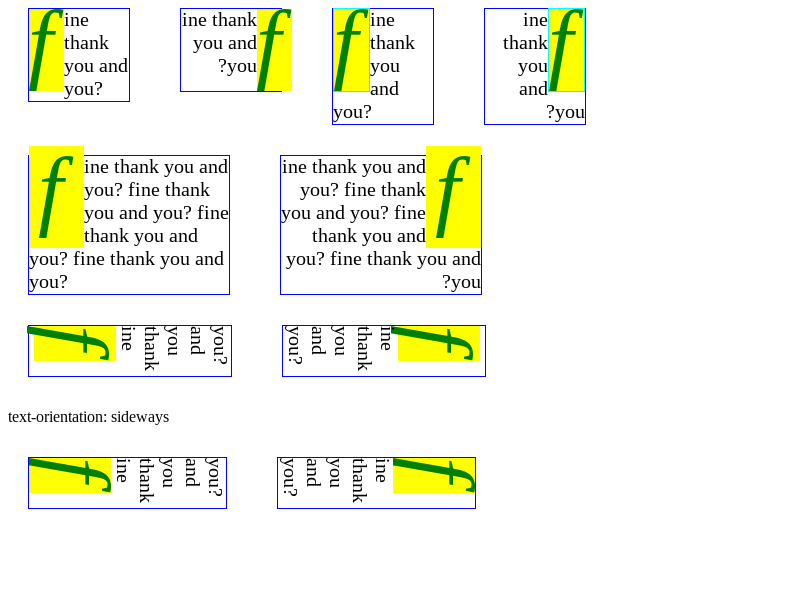
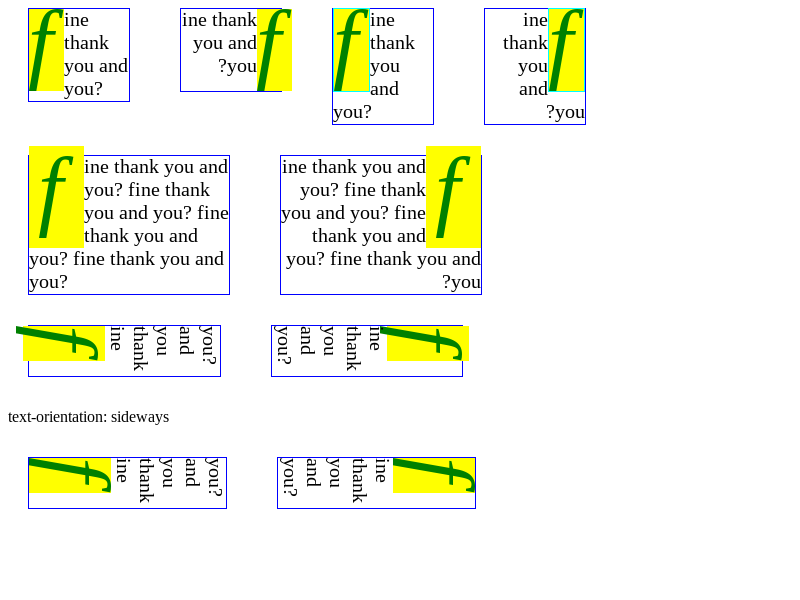
[initial-letter] Fix positioning for raised/sunken initial letters
When the the `initial-letter` property[1] has its `size`
larger than `sink`, the top of the initial letter glyph
overhangs the top of the first line.

Before this patch, the block-direction position of such
initial letters were computed based on the actual size of the
fragment. This patch changes it to the specified `size`,
making it consistent across different font metrics.

Note, the change to the positioning made two tests to hit
existing issues in exclusion space in vertical flow. They are
tracked at crbug.com/370423031.

[1] https://drafts.csswg.org/css-inline-3/#sizing-drop-initials

Bug: 370217727, 370423031
Commit-Queue: Kent Tamura <tkent@chromium.org>
Auto-Submit: Koji Ishii <kojii@chromium.org>
Cr-Commit-Position: refs/heads/main@{#1362700}

Changed region(s): [[0.3438, 0.54, 0.625, 0.63], [0.0, 0.54, 0.2812, 0.63]]

diff --git a/web_tests/external/wpt/css/css-inline/initial-letter/resources/initial-letter-variants.js b/web_tests/external/wpt/css/css-inline/initial-letter/resources/initial-letter-variants.js
@@ -1,0 +1,75 @@
+window.addEventListener('load', setupInitialLetterTestVariants);
+
+function setupInitialLetterTestVariants() {
+  const search = window.location.search;
+  if (!search) {
+    return;
+  }
+  const params = new URLSearchParams(search);
+  const classes = params.getAll('class')
+                  .flatMap(value => value.split(','))
+                  .filter(value => value);
+  let text = params.getAll('text').join('');
+  if (!text) {
+    if (classes.indexOf('no-descent') >= 0) {
+      text = '\xC9\xC9M\xC9';
+    } else if (classes.indexOf('no-ascent') >= 0) {
+      text = 'ppMp';
+    }
+  }
+
+  for (const element of document.getElementsByClassName('sample')) {
+    element.classList.add(...classes);
+    if (text) {
+      replaceTextStart(element, text);
+    }
+  }
+}
+
+// Replace the start of the text content of the node.
+// Returns the number of characters replaced.
+//
+// For example,
+// `replaceTextStart(element, 'XY')` to the content:
+// ```
+// <div>ABC</div>
+// ```
+// produces:
+// ```
+// <div>XYC</div>
+// ```
+//
+// It has a limited support for separated text nodes and collapsible spaces.
+function replaceTextStart(node, text) {
+  if (node.nodeType == Node.TEXT_NODE) {
+    const content = node.nodeValue;
+    const trimmed_content = content.trimStart();
+    if (!trimmed_content) {
+      return 0;
+    }
+    const leading_spaces_len = content.length - trimmed_content.length;
+    const len = Math.min(text.length, trimmed_content.length);
+    node.nodeValue = content.substring(0, leading_spaces_len) +
+                     text.substring(0, len) +
+                     trimmed_content.substring(len);
+    return len;
+  }
+
+  if (node.nodeType == Node.ELEMENT_NODE && node.className.indexOf('fake') >= 0) {
+    // If this is a fake initial letter, pretend that one character is replaced.
+    return 1;
+  }
+
+  let total_replaced = 0;
+  for (const child of node.childNodes) {
+    const replaced = replaceTextStart(child, text);
+    if (replaced) {
+      total_replaced += replaced;
+      text = text.substring(replaced);
+      if (!text) {
+        return total_replaced;
+      }
+    }
+  }
+  return total_replaced;
+}

diff --git a/web_tests/external/wpt/css/css-inline/initial-letter/initial-letter-raise-initial-ref.html b/web_tests/external/wpt/css/css-inline/initial-letter/initial-letter-raise-initial-ref.html
@@ -1,11 +1,11 @@
 <!DOCTYPE html>
-<html>
-<head>
+<meta charset="utf-8">
 <title>Tests initial letter raise initial</title>
 <link rel="author" title="Google LLC" href="https://www.google.com/">
 <link rel="help" href="https://drafts.csswg.org/css-inline/#raise-initial">
 <meta name="flags" content="ahem">
 <link rel="stylesheet" type="text/css" href="/fonts/ahem.css" >
+<script src="resources/initial-letter-variants.js"></script>
 <style>
     .sample {
         border: solid 1px green;
@@ -18,16 +18,27 @@
     .fake-initial-letter {
         background: lime;
         float: left;
-        height: 80px;
+        --cap: 0.8;
+        --size: calc((24px * 2 + 20px * var(--cap)) / var(--cap));
+        height: var(--size);
+        width: var(--size);
         margin-top: 2px;
-        width: 80px;
+    }
+
+    .no-ascent .fake-initial-letter {
+        height: calc(var(--size) * (1 - var(--cap)));
+        margin-top: calc(var(--size) * var(--cap) + 2px);
+    }
+    .no-descent .fake-initial-letter {
+        height: calc(var(--size) * var(--cap));
     }
 </style>
 </head>
 <body>
 <div class="sample">
-<div class="fake-initial-letter"></div><br><br><br>
+<div class="fake-initial-letter"></div><br><br>
 bc<br>def<br>ghi<br>jkl<br>mno<br>
 </div>
-</body>
-</html>
+<script>
+setupInitialLetterTestVariants();
+</script>

diff --git a/web_tests/external/wpt/css/css-inline/initial-letter/initial-letter-sunk-initial-ref.html b/web_tests/external/wpt/css/css-inline/initial-letter/initial-letter-sunk-initial-ref.html
@@ -6,6 +6,7 @@
 <link rel="help" href="https://drafts.csswg.org/css-inline/#sunk-initial">
 <meta name="flags" content="ahem">
 <link rel="stylesheet" type="text/css" href="/fonts/ahem.css" >
+<script src="resources/initial-letter-variants.js"></script>
 <style>
     .sample {
         border: solid 1px green;
@@ -18,15 +19,25 @@
     .fake-initial-letter {
         background: lime;
         float: left;
-        height: 80px;
+        --cap: 0.8;
+        --size: calc((24px * 2 + 20px * var(--cap)) / var(--cap));
+        height: var(--size);
+        width: var(--size);
         margin-top: 2px;
-        width: 80px;
+    }
+
+    .no-ascent .fake-initial-letter {
+        height: calc(var(--size) * (1 - var(--cap)));
+        margin-top: calc(var(--size) * var(--cap) + 2px);
+    }
+    .no-descent .fake-initial-letter {
+        height: calc(var(--size) * var(--cap));
     }
 </style>
 </head>
 <body>
 <div class="sample">
-<div class="fake-initial-letter"></div><br><br>
+<div class="fake-initial-letter"></div><br>
 bc<br>def<br>ghi<br>jkl<br>mno<br>
 </div>
 </body>

diff --git a/web_tests/external/wpt/css/css-inline/initial-letter/initial-letter-raise-initial.html b/web_tests/external/wpt/css/css-inline/initial-letter/initial-letter-raise-initial.html
@@ -1,12 +1,14 @@
 <!DOCTYPE html>
-<html>
-<head>
 <title>Tests initial letter raise initial</title>
 <link rel="author" title="Google LLC" href="https://www.google.com/">
 <link rel="help" href="https://drafts.csswg.org/css-inline/#raise-initial">
 <meta name="flags" content="ahem">
 <link rel="stylesheet" type="text/css" href="/fonts/ahem.css" >
 <link rel="match" href="initial-letter-raise-initial-ref.html">
+<script src="resources/initial-letter-variants.js"></script>
+<meta name="variant" content="?class=">
+<meta name="variant" content="?class=no-ascent">
+<meta name="variant" content="?class=no-descent">
 <style>
     .sample {
         border: solid 1px green;
@@ -28,5 +30,3 @@
 <div class="sample initial-letter">
 Abc<br>def<br>ghi<br>jkl<br>mno<br>
 </div>
-</body>
-</html>

diff --git a/web_tests/external/wpt/css/css-inline/initial-letter/initial-letter-sunk-initial-vlr-ref.html b/web_tests/external/wpt/css/css-inline/initial-letter/initial-letter-sunk-initial-vlr-ref.html
@@ -20,14 +20,14 @@
         background: lime;
         display: inline-block;
         height: 80px;
-        margin-left: 8px;
+        margin-left: -4px;
         margin-right: 8px;
         width: 80px;
     }
 
     .remainder {
         display: inline-block;
-        margin-left: 48px;
+        margin-left: 24px;
         margin-top: -20px;
         vertical-align: bottom;
     }
@@ -40,8 +40,8 @@
 <body>
 <div class="sample">
 <div class="fake-initial-letter"></div>
-<div class="remainder">bc<br>def<br></div><br>
-<div class="remainder2">ghi<br>jkl<br>mno<br></div>
+<div class="remainder">bc<br>def<br>ghi<br></div><br>
+<div class="remainder2">jkl<br>mno<br></div>
 </div>
 </body>
 </html>

diff --git a/web_tests/external/wpt/css/css-inline/initial-letter/initial-letter-raise-initial-vlr-ref.html b/web_tests/external/wpt/css/css-inline/initial-letter/initial-letter-raise-initial-vlr-ref.html
@@ -20,7 +20,7 @@
         background: lime;
         display: inline-block;
         height: 80px;
-        margin-left: 8px;
+        margin-left: -4px;
         margin-right: 8px;
         width: 80px;
     }
@@ -29,14 +29,19 @@
         display: inline-block;
         vertical-align: top;
         margin-top: -20px;
+        margin-right: -12px;
+    }
+
+    .remainder2 {
+        margin-left: 12px;
     }
 </style>
 </head>
 <body>
 <div class="sample">
 <div class="fake-initial-letter"></div>
-<div class="remainder">bc</div><br>
-def<br>ghi<br>jkl<br>mno<br>
+<div class="remainder">bc<br>def</div>
+<div class="remainder2">ghi<br>jkl<br>mno</div>
 </div>
 </body>
 </html>

diff --git a/web_tests/external/wpt/css/css-inline/initial-letter/initial-letter-sunk-initial.html b/web_tests/external/wpt/css/css-inline/initial-letter/initial-letter-sunk-initial.html
@@ -1,12 +1,14 @@
 <!DOCTYPE html>
-<html>
-<head>
 <title>Tests initial letter sunken initial</title>
 <link rel="author" title="Google LLC" href="https://www.google.com/">
 <link rel="help" href="https://drafts.csswg.org/css-inline/#sunk-initial">
 <meta name="flags" content="ahem">
 <link rel="stylesheet" type="text/css" href="/fonts/ahem.css" >
 <link rel="match" href="initial-letter-sunk-initial-ref.html">
+<script src="resources/initial-letter-variants.js"></script>
+<meta name="variant" content="?class=">
+<meta name="variant" content="?class=no-ascent">
+<meta name="variant" content="?class=no-descent">
 <style>
     .sample {
         border: solid 1px green;

diff --git a/web_tests/external/wpt/css/css-inline/initial-letter/initial-letter-sunk-initial-vrl-ref.html b/web_tests/external/wpt/css/css-inline/initial-letter/initial-letter-sunk-initial-vrl-ref.html
@@ -21,13 +21,13 @@
         display: inline-block;
         height: 80px;
         margin-left: 8px;
-        margin-right: 8px;
+        margin-right: -4px;
         width: 80px;
     }
 
     .remainder {
         display: inline-block;
-        margin-right: 48px;
+        margin-right: 24px;
         margin-top: -20px;
         vertical-align: top;
     }
@@ -40,8 +40,8 @@
 <body>
 <div class="sample">
 <div class="fake-initial-letter"></div>
-<div class="remainder">bc<br>def</div><br>
-<div class="remainder2">ghi<br>jkl<br>mno<br></div>
+<div class="remainder">bc<br>def<br>ghi</div><br>
+<div class="remainder2">jkl<br>mno<br></div>
 </div>
 </body>
 </html>

diff --git a/web_tests/external/wpt/css/css-inline/initial-letter/initial-letter-raise-initial-vrl-ref.html b/web_tests/external/wpt/css/css-inline/initial-letter/initial-letter-raise-initial-vrl-ref.html
@@ -20,8 +20,8 @@
         background: lime;
         display: inline-block;
         height: 80px;
-        margin-left: 8px;
-        margin-right: 8px;
+        margin-left: 20px;
+        margin-right: -4px;
         width: 80px;
     }
 
@@ -35,8 +35,8 @@
 <body>
 <div class="sample">
 <div class="fake-initial-letter"></div>
-<div class="remainder">bc</div><br>
-def<br>ghi<br>jkl<br>mno<br>
+<div class="remainder">bc<br>def</div><br>
+ghi<br>jkl<br>mno<br>
 </div>
 </body>
 </html>

diff --git a/web_tests/external/wpt/css/css-inline/initial-letter/initial-letter-block-position-raise-over-ruby-ref.html b/web_tests/external/wpt/css/css-inline/initial-letter/initial-letter-block-position-raise-over-ruby-ref.html
@@ -31,7 +31,7 @@
 </head>
 <body>
 <div class="sample">
-<div class="fake-initial-letter"></div><br><br><br>
+<div class="fake-initial-letter"></div><br><br>
 <div class="surrounding">bc <ruby>xyz<rt>XYZ</rt></ruby></div>
 def<br>ghi<br>jkl<br>mno<br>
 </div>

diff --git a/web_tests/external/wpt/css/css-inline/initial-letter/initial-letter-block-position-raise-under-ruby-ref.html b/web_tests/external/wpt/css/css-inline/initial-letter/initial-letter-block-position-raise-under-ruby-ref.html
@@ -32,7 +32,7 @@
 </head>
 <body>
 <div class="sample">
-<div class="fake-initial-letter"></div><br><br><br>
+<div class="fake-initial-letter"></div><br><br>
 <div class="surrounding">bc <ruby>xyz<rt>XYZ</rt></ruby></div>
 def<br>ghi<br>jkl<br>mno<br>
 </div>

diff --git a/web_tests/external/wpt/css/css-inline/initial-letter/initial-letter-raised-sunken-caps-raise-ref.html b/web_tests/external/wpt/css/css-inline/initial-letter/initial-letter-raised-sunken-caps-raise-ref.html
@@ -27,7 +27,7 @@
 <body>
 <div>This line before initial letter.</div>
 <div class="sample">
-<div class="fake-initial-letter"></div><br><br><br>
+<div class="fake-initial-letter"></div><br><br>
 bc<br>def<br>ghi<br>jkl<br>mno<br>
 </div>
 </body>
